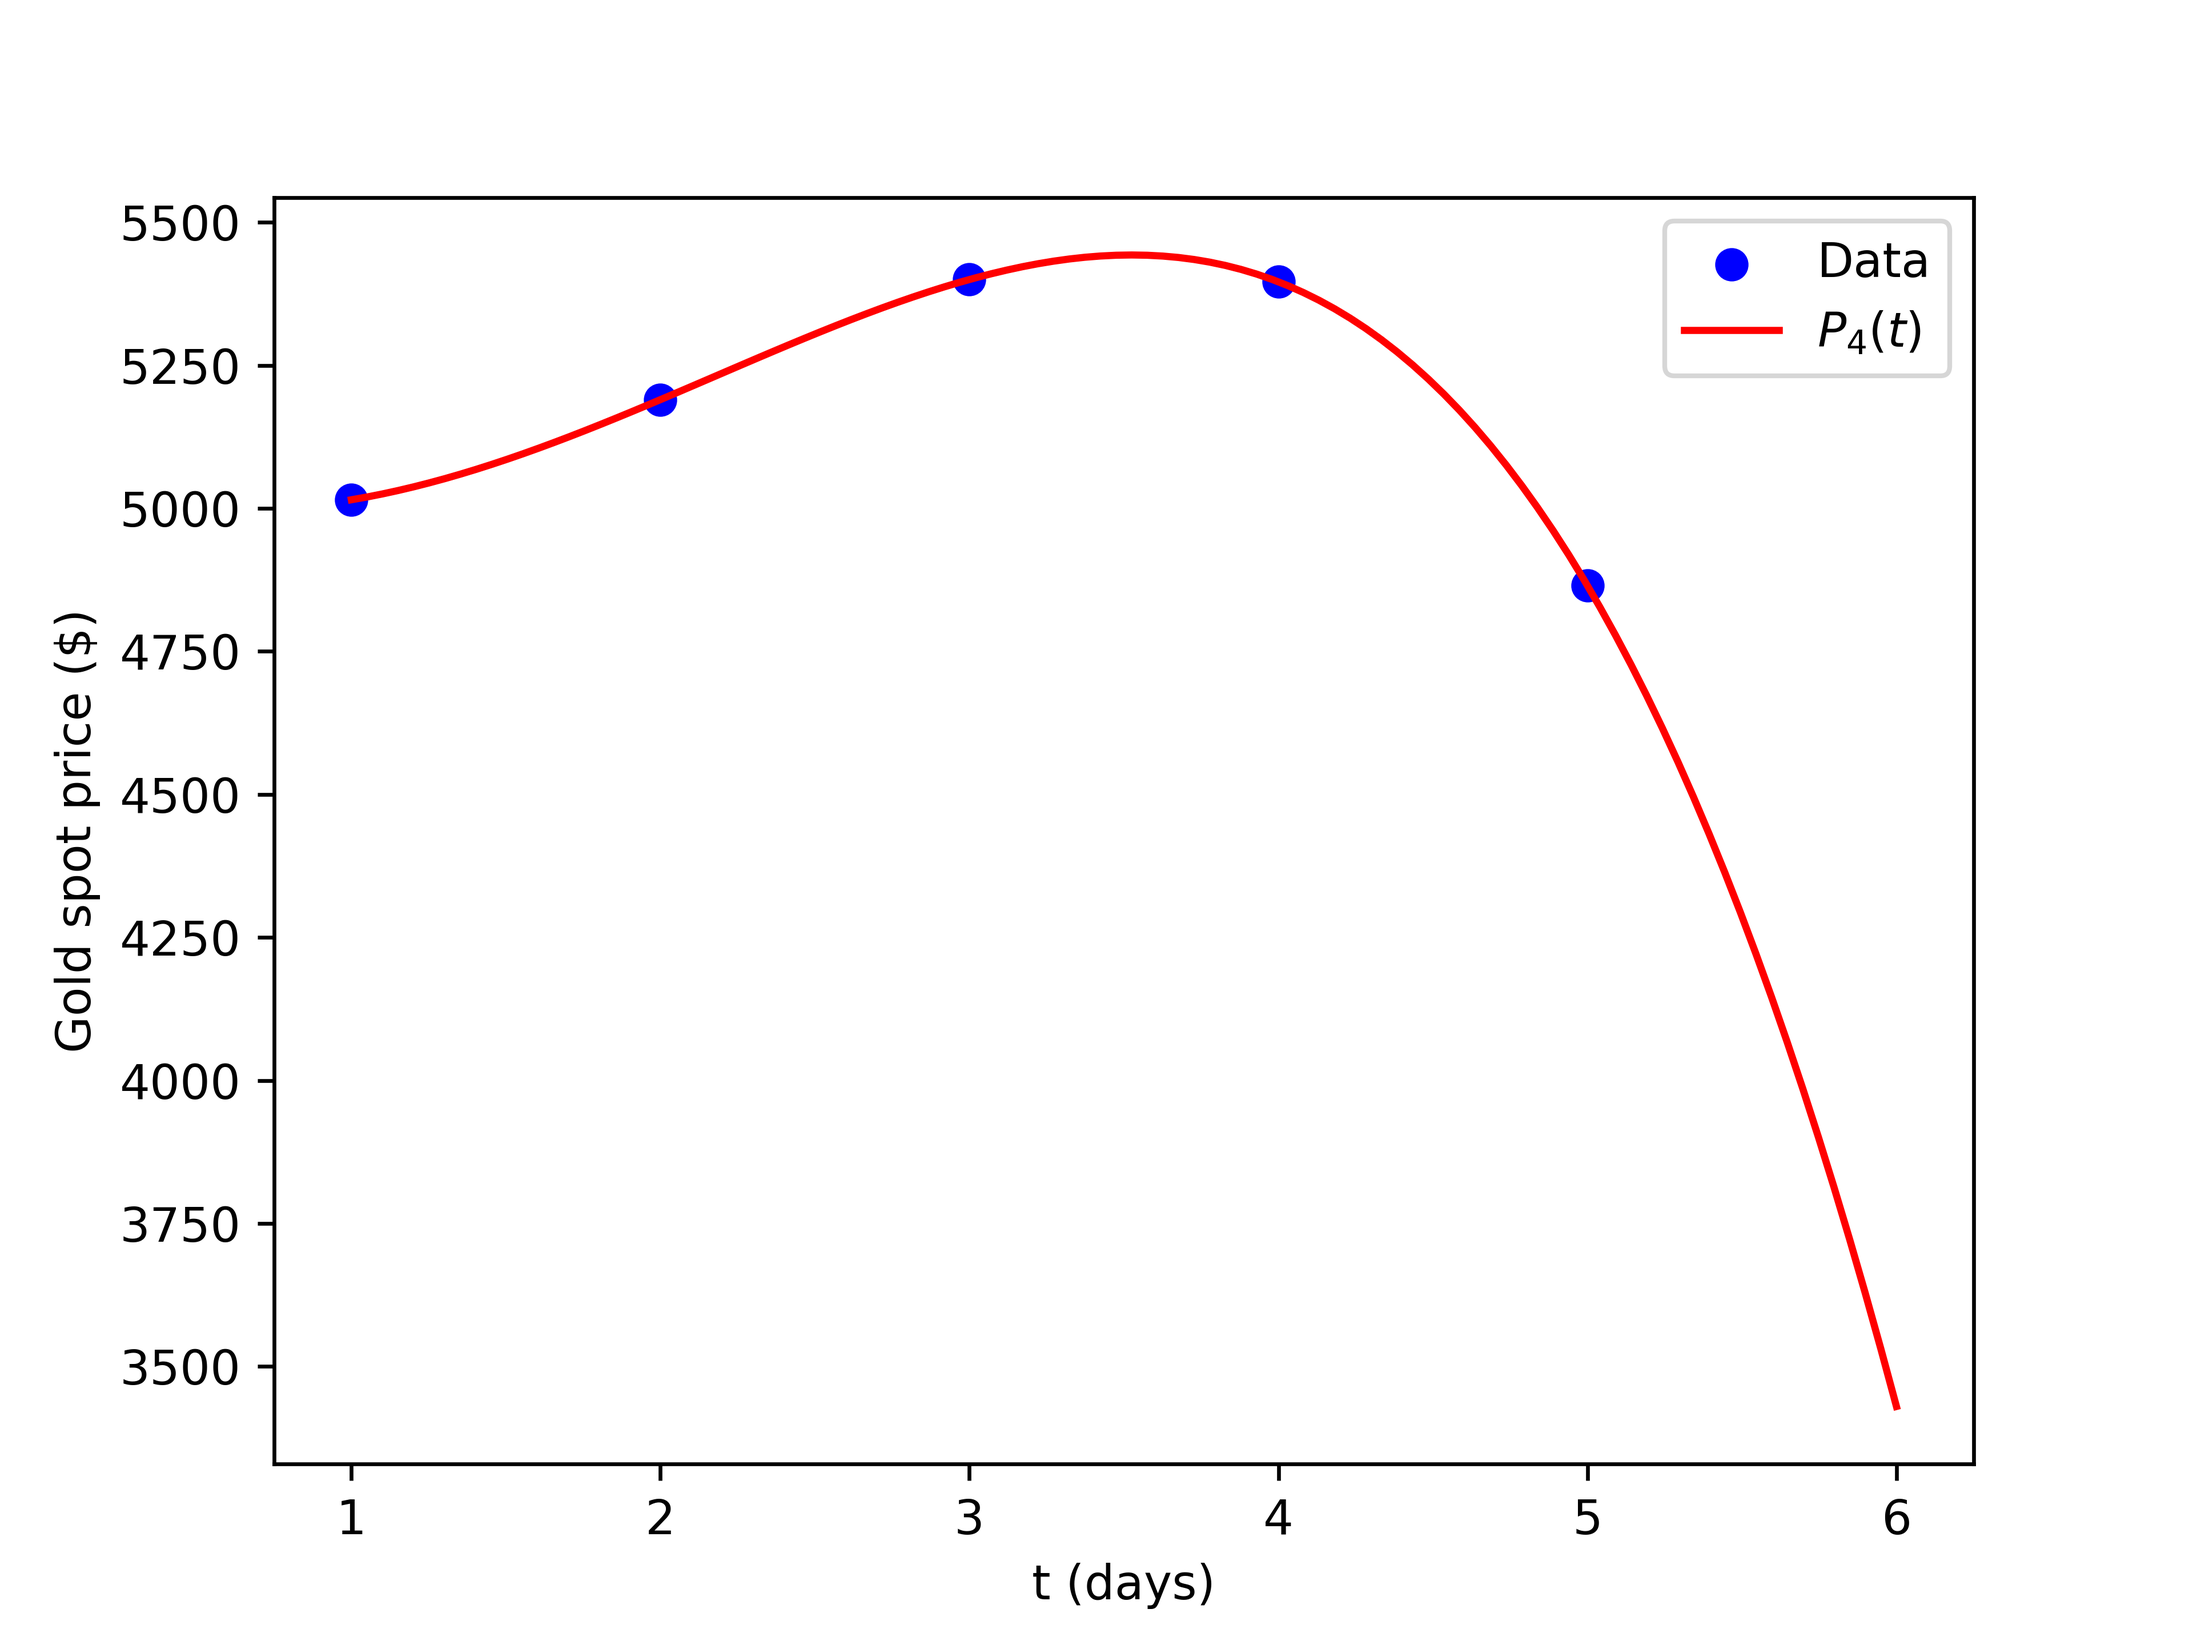
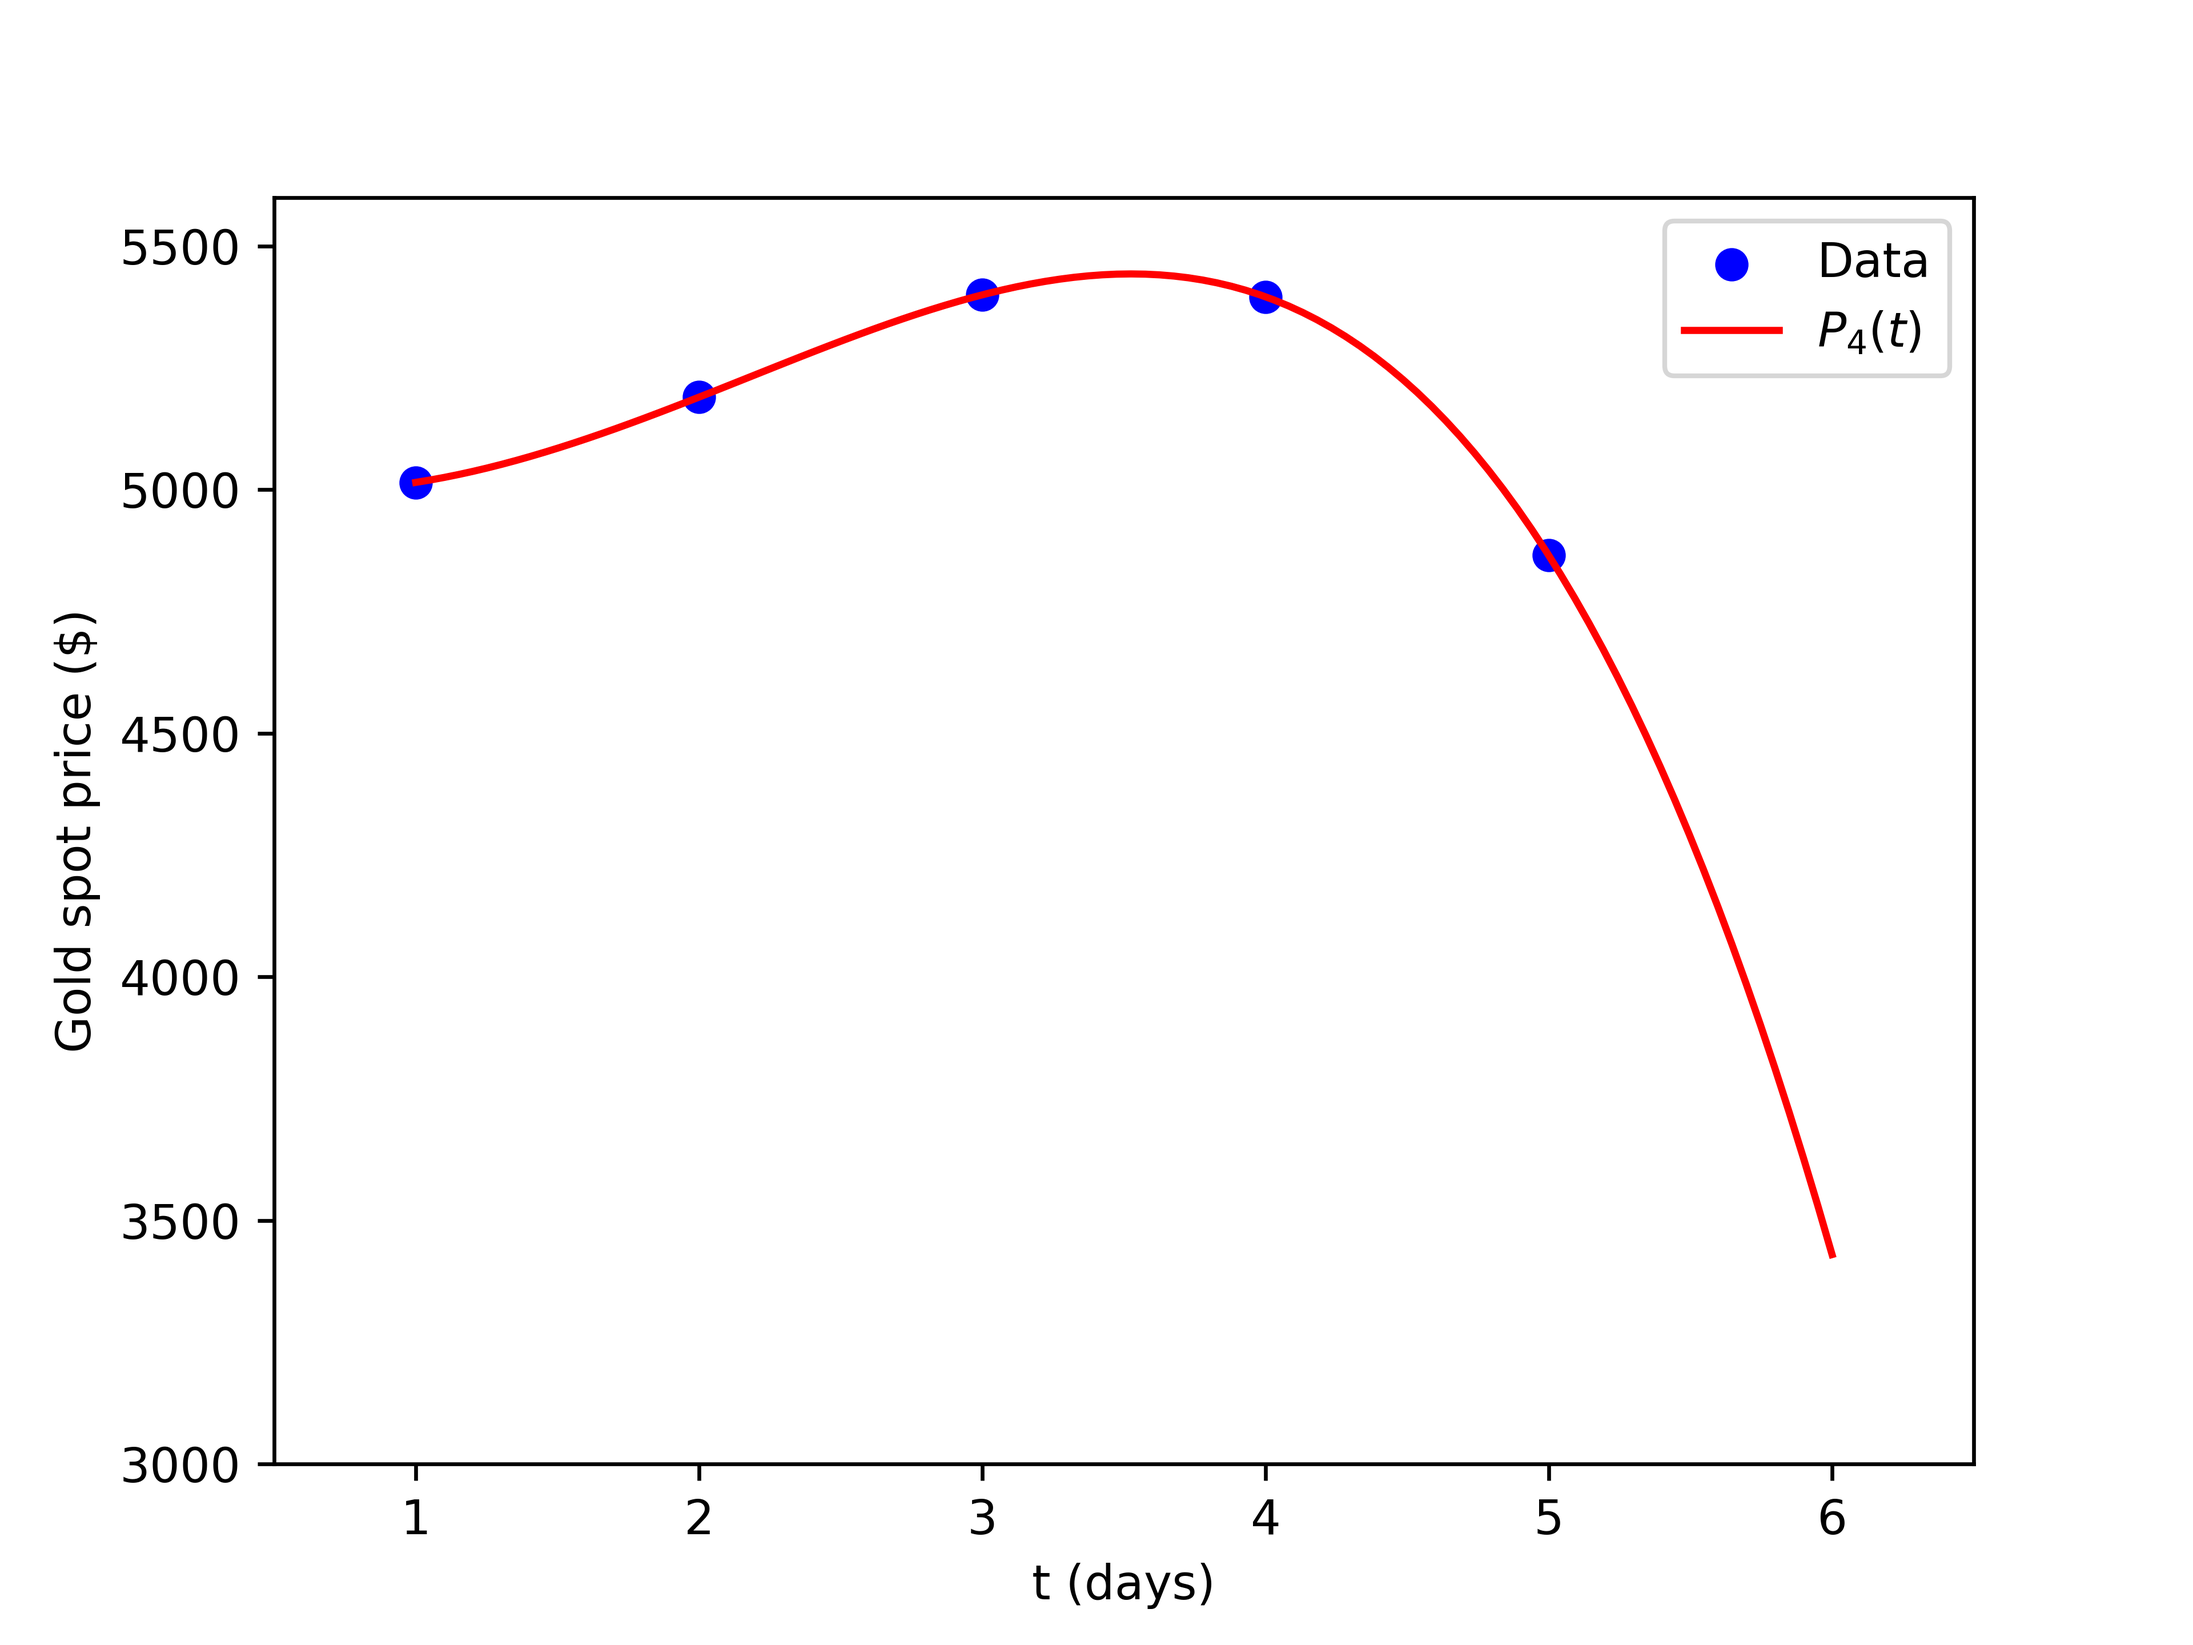
making better graphs

diff --git a/hw1.2.py b/hw1.2.py
@@ -39,6 +39,8 @@ plt.scatter(t_values, prices, color='blue', label='Data')
 plt.plot(x_arr, P_4(x_arr), color='red', label=r'$P_4(t)$')
 plt.xlabel('t (days)')
 plt.ylabel('Gold spot price ($)')
+plt.xlim(0.5, 6.5)
+plt.ylim(3000, 5600)
 plt.legend()
 plt.savefig('./P4interpolate.png', dpi=600)
 
@@ -65,6 +67,8 @@ plt.scatter(t_values, prices, color='blue', label='Data')
 plt.plot(x_arr, Q_2(x_arr), color='red', label=r'$Q_2(t)$')
 plt.xlabel('t (days)')
 plt.ylabel('Gold spot price ($)')
+plt.xlim(0.5, 6.5)
+plt.ylim(3000, 5600)
 plt.legend()
 plt.savefig('./Q2fit.png', dpi=600)
 

diff --git a/hw1a.py b/hw1a.py
@@ -35,7 +35,7 @@ for i in range(X.shape[0]):
 # implement OLS
 
 a = np.matmul(np.matmul(np.linalg.inv(np.matmul(X.transpose(), X)), X.transpose()), y_arr)
-
+print(str(a))
 def Q3(x):
     return (a[0] + a[1]*x + a[2]*x**2 + a[3]*x**3)
 
